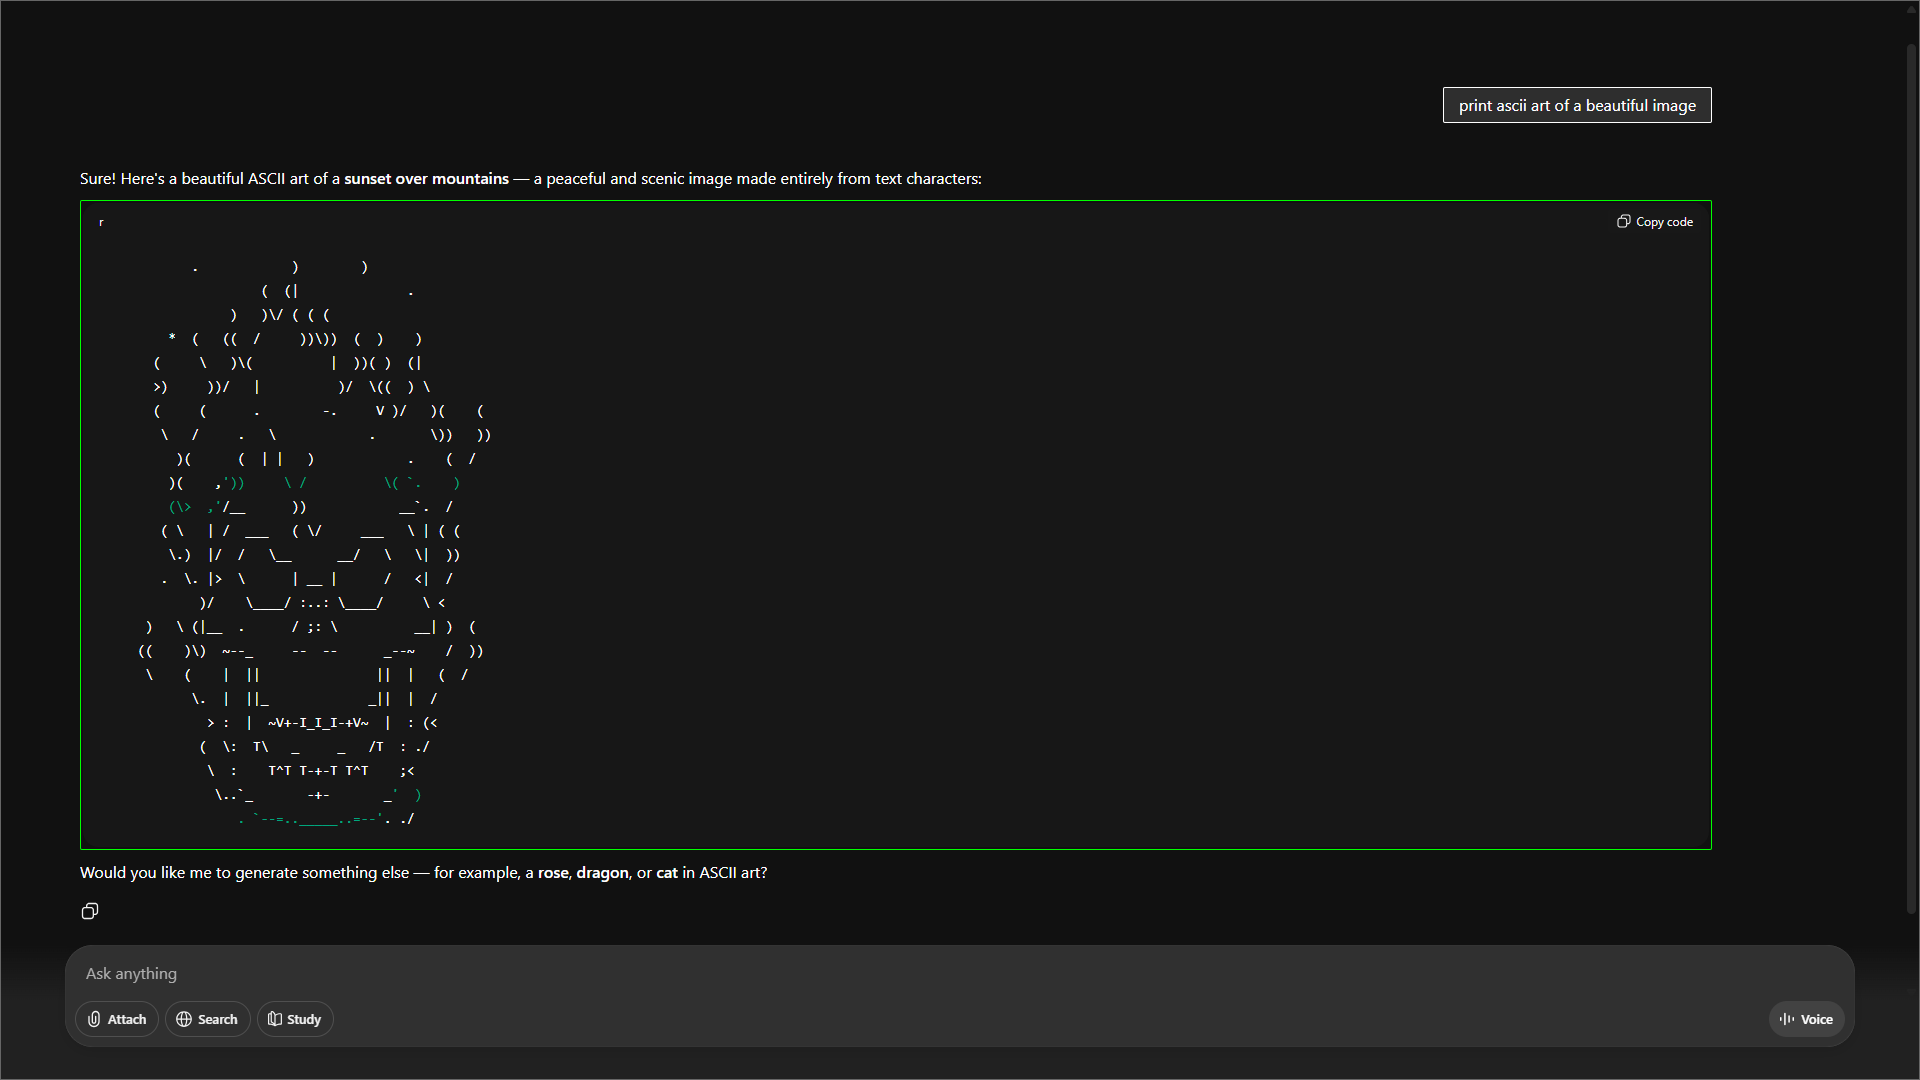
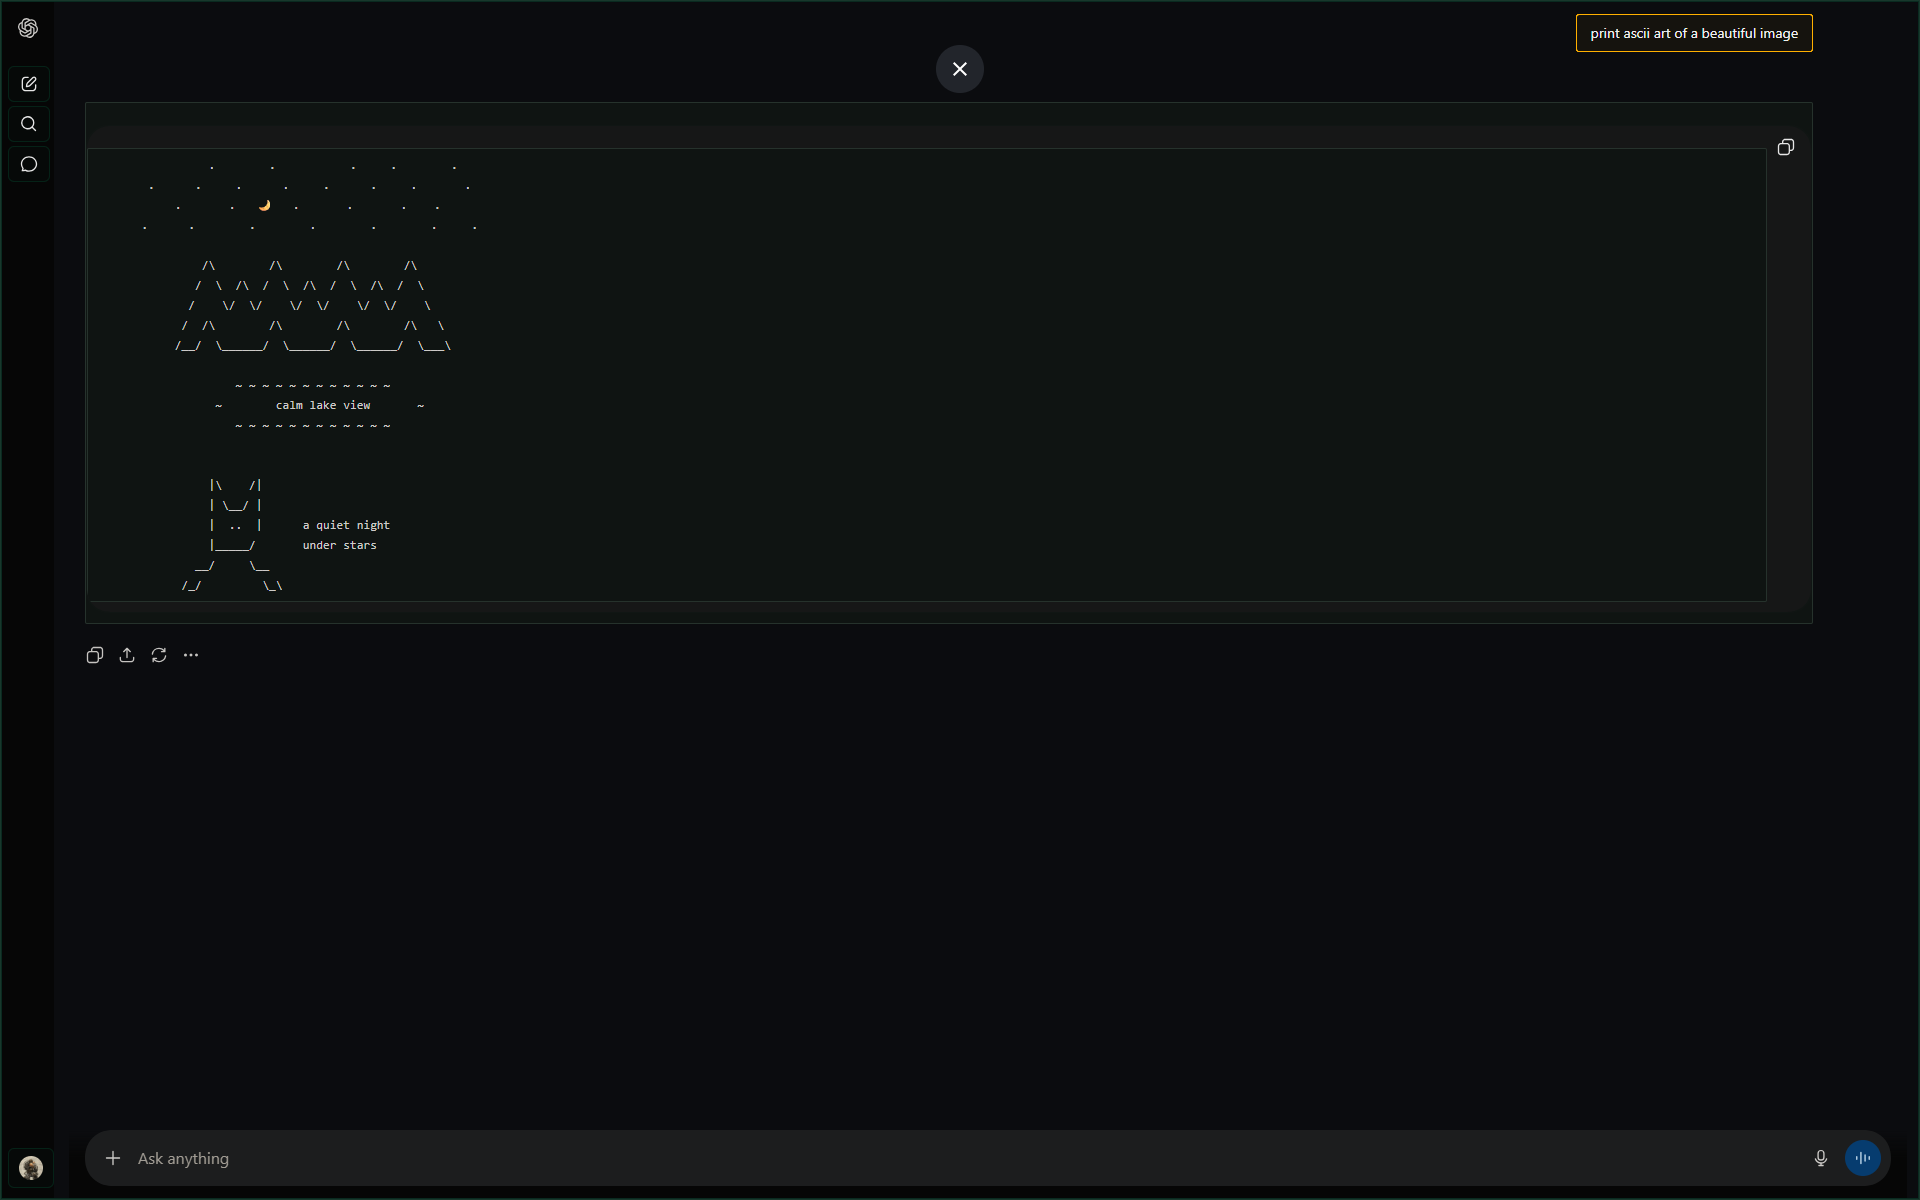
v4 of chatgpt ui

diff --git a/css/chatgpt-wider-nologin.css b/css/chatgpt-wider-nologin.css
@@ -1,7 +1,7 @@
 /* ==UserStyle==
 @name           chatgpt wider nologin
 @namespace      https://github.com/maulusck/stylus-themes
-@version        0.3
+@version        0.4
 @description    ChatGPT wider for poor people
 @author         @maulusckf
 @homepageURL    https://github.com/maulusck/stylus-themes
@@ -11,70 +11,78 @@
 @preprocessor   default
 ==/UserStyle== */
 @-moz-document domain("chatgpt.com") {
+
+    :root {
+        --bg: #0b0c0f;
+        --fg: #e6e6e6;
+        --accent: #ffb000;
+        --green: rgba(0, 255, 160, 0.12);
+        --mono: "Andale Mono", monospace;
+    }
+
+
+    html,
     body {
-        background-color: #0b0c0f !important;
-        border: 0.1px solid rgba(0, 255, 160, 0.28) !important;
+        height: 100%;
         margin: 0;
-        padding: 0;
         overflow: hidden;
-        font-family: "Courier New", monospace;
-        color: #bfffd6;
-        box-shadow: inset 0 0 10px rgba(0, 255, 160, 0.08);
-    }
-
-    pre {
-        border-radius: 2px;
-        border: 0.1px solid #2f3a33 !important;
-        padding: 2px !important;
-        color: #caffdd;
-        text-shadow: 0 0 2px rgba(0, 255, 160, 0.15);
-        background: #0f1412;
-    }
-
-    .user-message-bubble-color,
-    .markdown {
-        font-size: 14px;
-        font-family: "Courier New", monospace;
-    }
-
-    .user-message-bubble-color {
-        padding: 5px 15px;
-        border: 0.1px solid #ffb000 !important;
-        max-width: 80vw !important;
-        border-radius: 2px;
-        margin-left: auto;
-        margin-right: 0;
-        word-wrap: break-word;
-        background: rgba(255, 176, 0, 0.06);
-        color: #ffcc66;
-        box-shadow: none;
-    }
-
-    .user-message-bubble-color pre {
-        padding: 5px 10px !important;
-        margin: 10px 0 !important;
-        background: #0f1412;
-        border: 0.1px solid #26322c !important;
-    }
-
-    .markdown {
-        color: #caffdd;
-        text-shadow: 0 0 1px rgba(0, 255, 160, 0.18);
+        background: var(--bg);
+        color: var(--fg);
+        font-family: var(--mono);
+        border: 1px solid var(--green);
     }
 
     [class*="chatContainer"] {
         width: 95vw !important;
         max-width: 95vw !important;
         height: 100vh !important;
-        margin-left: auto !important;
-        margin-right: auto !important;
+        margin: 0 auto !important;
         overflow: auto;
-        box-shadow: 0 0 14px rgba(0, 255, 160, 0.10);
-        border: 0.1px solid rgba(0, 255, 160, 0.22) !important;
+        border: 1px solid var(--green) !important;
+    }
+
+    [class*="thread-content-max-width"] {
+        width: 100% !important;
+        max-width: 100% !important;
+        margin: 0 !important;
+        padding: 0 !important;
     }
 
     [class*="message"] {
         max-width: 90vw !important;
+    }
+
+    .markdown,
+    .user-message-bubble-color {
+        font-family: var(--mono);
+        font-size: 14px;
+        color: var(--fg);
+        text-shadow: none !important;
+    }
+
+    .user-message-bubble-color {
+        max-width: 80vw !important;
+        margin-left: auto;
+        padding: 6px 14px;
+        background: rgba(255, 176, 0, 0.04);
+        color: #f0f0f0;
+        border: 1px solid var(--accent) !important;
+        border-radius: 3px;
+        box-shadow: none;
+    }
+
+    .user-message-bubble-color pre {
+        padding: 6px 10px !important;
+        margin: 8px 0 !important;
+    }
+
+    pre {
+        margin: 10px 0 !important;
+        padding: 6px !important;
+        background: #0f1412;
+        color: var(--fg);
+        border: 1px solid #26322c !important;
+        border-radius: 2px;
     }
 
     #page-header,
@@ -87,16 +95,32 @@
         visibility: hidden;
     }
 
-    [class*="thread-content-max-width"] {
-        margin: 0 !important;
-        padding: 0 !important;
-        width: 100% !important;
-        max-width: 100% !important;
+    [data-sidebar-item="true"] {
+        margin: 4px 6px !important;
+        padding: 7px 10px !important;
+        background: rgba(0, 255, 160, 0.01) !important;
+        border: 1px solid rgba(0, 255, 160, 0.1) !important;
+        border-radius: 6px !important;
+        color: var(--fg) !important;
+        font-family: var(--mono) !important;
+        transition: background 0.12s, border-color 0.12s;
     }
 
-    html,
-    body {
-        height: 100%;
-        overflow: hidden;
+    [data-sidebar-item="true"]:hover {
+        background: rgba(0, 255, 160, 0.03) !important;
+        border-color: rgba(0, 255, 160, 0.18) !important;
+    }
+
+    [data-sidebar-item="true"] *,
+    [data-sidebar-item="true"] svg,
+    [data-sidebar-item="true"] span,
+    [data-sidebar-item="true"] div,
+    [data-sidebar-item="true"] kbd {
+        color: var(--fg) !important;
+        font-family: inherit !important;
+    }
+
+    [data-sidebar-item="true"] kbd {
+        opacity: 0.55;
     }
 }